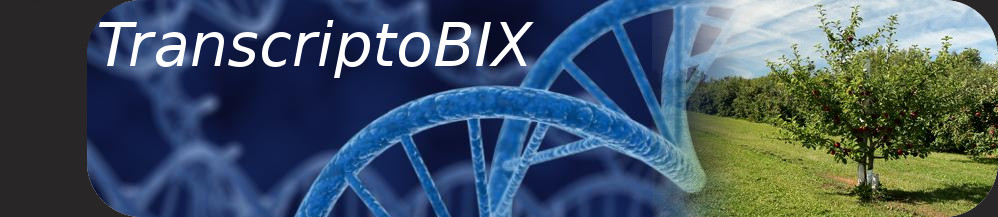
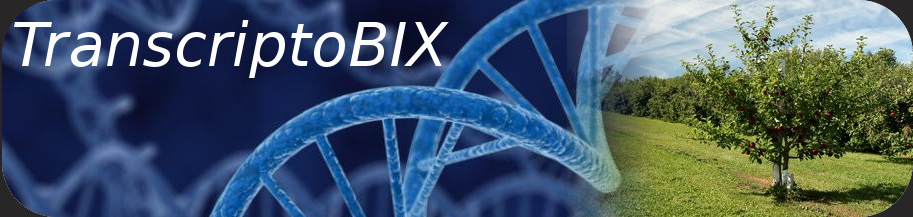
- removed unused classes - removed some random file
- fixed comments (removed version annotation among others)

- fixed looks of help button

- fixed Transcriptobic logo (cut the left part, positioned it) -> ask Matt if he has original picture

diff --git a/web/resources/css/style.css b/web/resources/css/style.css
@@ -156,7 +156,7 @@ h5 {font-size:10px}
 #logo-text {color:#ccc; font:normal 27px arial,serif; position:absolute; top:40px; left:100px}
 #logincontrol {width:632px; height:31px; float:right; display:inline; padding:15px 0 15px 0; text-align:center; color:#888}
 #logincontrols:after {content:"."; display:block; height:0; clear:both; visibility:hidden}
-#headerimage {width:998px; height:233px; background:url('../images/bg_header.jpg') no-repeat top left; float:left; position:relative; left: -10}
+#headerimage {width:998px; height:233px; background:url('../images/bg_header.jpg') no-repeat top left; float:left; position:relative; margin-left: 30px}
 #slogan {color:#ffffff; font:normal 20px arial,serif; position:absolute; bottom:35px; left:320px; text-shadow: 2px 2px #000000}
 #registerFloater {width:189px; height:59px; margin:128px 0 0 0; background:url('../images/download.gif') no-repeat top left; float:left}
 #registerFloater-text {color:#fff; font:bold 15px/22px arial,serif; width:187px; display:block; text-align:center; padding:8px 2px 0 0}

diff --git a/src/java/toolstuff/RNAseqJob.java b/src/java/toolstuff/RNAseqJob.java
@@ -9,13 +9,9 @@ import entitybeans.Files;
 import entitybeans.Filetype;
 import entitybeans.Jobhistory;
 import entitybeans.Projects;
-import java.io.BufferedReader;
 import java.io.IOException;
-import java.io.InputStream;
-import java.io.InputStreamReader;
 import java.lang.reflect.Field;
 import java.util.ArrayList;
-import java.util.Arrays;
 import java.util.Collection;
 import java.util.List;
 import java.util.logging.Level;
@@ -23,8 +19,6 @@ import java.util.logging.Logger;
 import javax.ejb.Asynchronous;
 import javax.ejb.EJB;
 import javax.ejb.Stateful;
-import javax.faces.bean.ManagedProperty;
-import managedbeans.UtilityBean;
 import sessionbeans.FilesFacade;
 import sessionbeans.JobHistoryFacade;
 import sessionbeans.ProjectSessionFacade;
@@ -35,7 +29,6 @@ import toolstuff.util.Tool;
  * (UtilityBean).
  *
  * @author Rafal Kural
- * @version 1.0
  */
 
 @Stateful

diff --git a/src/java/managedbeans/ToolBean.java b/src/java/managedbeans/ToolBean.java
@@ -7,25 +7,18 @@ package managedbeans;
 
 import entitybeans.Jobhistory;
 import entitybeans.Projects;
-import java.util.regex.Pattern;
 import javax.ejb.EJB;
 import javax.faces.bean.ManagedBean;
 import javax.faces.bean.ManagedProperty;
 import javax.faces.bean.RequestScoped;
-import javax.faces.context.FacesContext;
-import javax.servlet.http.HttpSession;
-import managedbeans.UtilityBean;
-import sessionbeans.AccountSessionFacade;
 import sessionbeans.FilesFacade;
 import sessionbeans.JobHistoryFacade;
 import sessionbeans.ProjectSessionFacade;
-import sessionbeans.WorkGroupSessionFacade;
 import toolstuff.RNAseqJob;
 
 /**
  * Managed bean for running tool jobs
  * @author Rafal Kural
- * @version 1.0
  */
 @ManagedBean//(name = "TestToolBean")
 @RequestScoped

diff --git a/src/java/managedbeans/WorkgroupBean.java b/src/java/managedbeans/WorkgroupBean.java
@@ -16,7 +16,6 @@ import java.util.Map;
 import javax.ejb.EJB;
 import javax.faces.bean.ManagedBean;
 import javax.faces.bean.ManagedProperty;
-import javax.faces.bean.RequestScoped;
 import javax.faces.bean.ViewScoped;
 import sessionbeans.AccountSessionFacade;
 import sessionbeans.ProjectSessionFacade;
@@ -25,7 +24,6 @@ import sessionbeans.WorkGroupSessionFacade;
 /**
  * Managed bean for workgroup-related operations
  * @author Rafal Kural
- * @version 1.0
  */
 @ManagedBean
 @ViewScoped

diff --git a/src/java/managedbeans/ToolsSidebarBean.java b/src/java/managedbeans/ToolsSidebarBean.java
@@ -5,9 +5,7 @@
  */
 package managedbeans;
 
-import java.util.ArrayList;
 import java.util.List;
-import javax.ejb.EJB;
 import javax.faces.bean.ManagedBean;
 import javax.faces.bean.ManagedProperty;
 import javax.faces.bean.RequestScoped;
@@ -18,7 +16,6 @@ import toolstuff.util.ToolsBaseFactory;
 /**
  * Managed bean for displaying and choosing tools
  * @author Rafal Kural
- * @version 1.0
  */
 @ManagedBean
 @RequestScoped

diff --git a/src/java/utils/FileReader.java b/src/java/utils/FileReader.java
@@ -6,7 +6,6 @@
 
 package utils;
 
-import java.io.BufferedReader;
 import java.io.File;
 import java.io.FileNotFoundException;
 import java.util.ArrayList;
@@ -16,7 +15,6 @@ import java.util.Scanner;
 /**
  * Class that allows retrieving contents of files
  * @author Rafal Kural
- * @version 1.0
  */
 public final class FileReader {
     

diff --git a/src/java/filters/LoginStatusFilter.java b/src/java/filters/LoginStatusFilter.java
@@ -25,7 +25,6 @@ import managedbeans.UtilityBean;
 /**
  * Filters pages that user can see depending on his logged-in/out status
  * @author Rafal Kural
- * @version 1.0
  */
 @WebFilter(filterName = "LoginStatusFilter", urlPatterns = {"/*"})
 public class LoginStatusFilter implements Filter {

diff --git a/src/java/outputview/GenericOutput.java b/src/java/outputview/GenericOutput.java
@@ -11,7 +11,6 @@ import toolstuff.util.ETool;
  * Generic output entity class
  * Output entity allows to generate it in specific way on output page
  * @author Rafal Kural
- * @version 1.0
  */
 public class GenericOutput {
     /**

diff --git a/src/java/managedbeans/AuthenticationBean.java b/src/java/managedbeans/AuthenticationBean.java
@@ -19,7 +19,6 @@ import sessionbeans.AccountSessionFacade;
 /**
  * Managed bean dealing with registering and logging users in/out
  * @author Rafal Kural
- * @version 1.0
  */
 @ManagedBean
 @RequestScoped

diff --git a/src/java/managedbeans/ProjectBean.java b/src/java/managedbeans/ProjectBean.java
@@ -22,7 +22,6 @@ import sessionbeans.WorkGroupSessionFacade;
 /**
  * Managed bean for project-related operations
  * @author Rafal Kural
- * @version 1.0
  */
 @ManagedBean
 @ViewScoped

diff --git a/src/java/toolstuff/util/EToolType.java b/src/java/toolstuff/util/EToolType.java
@@ -8,7 +8,6 @@ package toolstuff.util;
 /**
  * Enum type listing available tool family types
  * @author Rafal Kural
- * @version 1.0
  */
 public enum EToolType {
     PREPROCESSING,

diff --git a/src/java/toolstuff/util/Tool.java b/src/java/toolstuff/util/Tool.java
@@ -10,7 +10,6 @@ import java.util.List;
 /**
  * Tools entity class. Not from database
  * @author Rafal Kural
- * @version 1.0
  */
 public class Tool {
     private String name;
